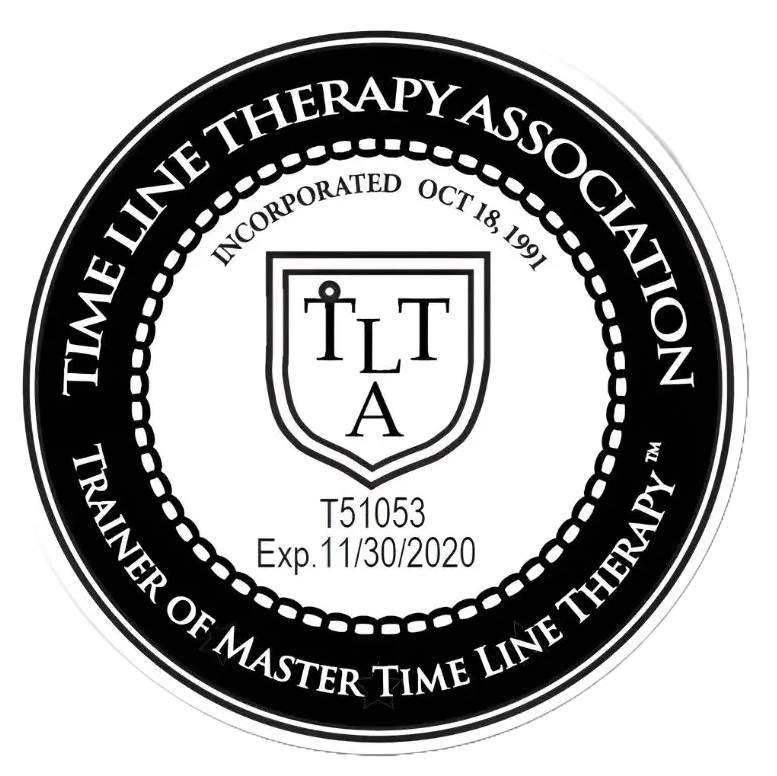
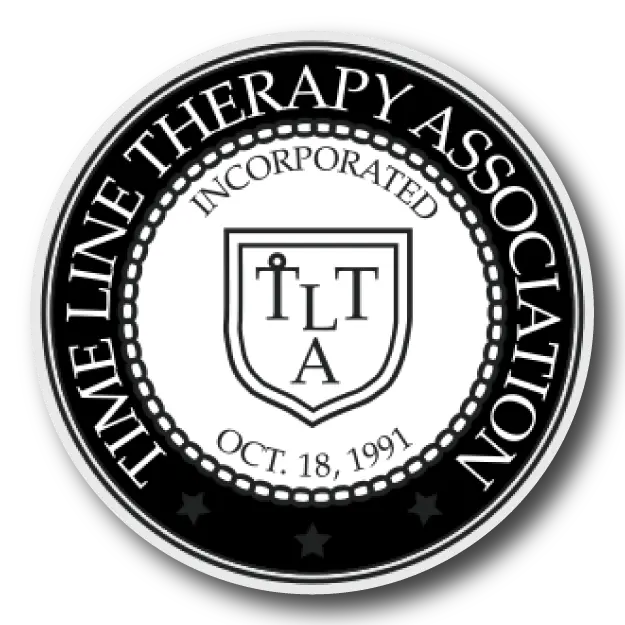
Footer contact labels, Resources dropdown, TLTA seal, empowerYourself content update

diff --git a/app/about-us/[slug]/data.tsx b/app/about-us/[slug]/data.tsx
@@ -53,7 +53,7 @@ import cert3Level3 from "@/assets/level-certificate/certificate-3-level-3.webp"
 import cert4Level3 from "@/assets/level-certificate/certificate-4-level-3.webp"
 import cert5Level3 from "@/assets/level-certificate/certificate-5-level-3.webp"
 import badgeABNLP from "@/assets/level-certificate/badges/abnlp.webp"
-// badgeTLTA not used: the tlta.webp seal prints an expiry date (F6). LOGO: TLTA - Khansa to supply approved artwork.
+import badgeTLTA from "@/assets/level-certificate/badges/tlta.webp"
 import badgeCDAB from "@/assets/level-certificate/badges/cdab.webp"
 import badgeABH from "@/assets/level-certificate/badges/abh.webp"
 import badgeNGH from "@/assets/level-certificate/badges/ngh.webp"
@@ -94,8 +94,8 @@ const approvedBodies: { board: string; seal?: StaticImageData; text: string }[] 
   { board: "ABNLP Coaching Division", seal: badgeCDAB, text: "ABNLP Coaching Division. AL&CO is an Approved Institute of NLP Coaching." },
   // LOGO: ABH - Khansa to supply approved artwork
   { board: "ABH", seal: badgeABH, text: "ABH, the American Board of Hypnotherapy. AL&CO is an ABH Approved School of Hypnosis." },
-  // LOGO: TLTA - Khansa to supply approved artwork (the repo's tlta.webp prints an expiry date, F6)
-  { board: "TLTA", text: "TLTA, the Time Line Therapy Association, for your Time Line Therapy® Techniques credentials." },
+  
+  { board: "TLTA", seal: badgeTLTA, text: "TLTA, the Time Line Therapy Association, for your Time Line Therapy® Techniques credentials." },
   // LOGO: NGH - Khansa to supply approved artwork
   { board: "NGH", seal: badgeNGH, text: "NGH, the National Guild of Hypnotists (USA)." },
   // LOGO: ANLP (UK) - Khansa to supply approved artwork (ANLP CPD badge until then)
@@ -316,9 +316,7 @@ const certificateDataAL: CertificateItem[] = [
     level: "therapy",
     image: CertTrainerMasterTLT,
     badgeImage: CertTrainerMasterTLTBadge,
-    // LOGO: TLTA - Khansa to supply approved artwork. The repo's tlta.webp seal prints
-    // "Exp: 11/30/2020" (DECISIONS v2 F6), so no seal is shown until then.
-    accreditedBadges: [],
+    accreditedBadges: [badgeTLTA],
   },
   {
     id: "11",
@@ -797,8 +795,7 @@ export const certificateDataBP: CertificateItem[] = [
   },
 
   // Time Line Therapy Certificates (TLTA)
-  // LOGO: TLTA - Khansa to supply approved artwork. The repo's tlta.webp seal prints an expiry
-  // date (F6), so only the AL&CO seal is shown on these two cards until then.
+
   {
     id: "10",
     tabLabel: "TLT Practitioner",
@@ -813,7 +810,7 @@ export const certificateDataBP: CertificateItem[] = [
     badgeText: "TLTA Certified Practitioner of Time Line Therapy® Techniques",
     level: "therapy",
     image: cert2Level1,
-    accreditedBadges: [badgeALCO],
+    accreditedBadges: [badgeTLTA, badgeALCO],
   },
   {
     id: "11",
@@ -829,7 +826,7 @@ export const certificateDataBP: CertificateItem[] = [
     badgeText: "TLTA Certified Master Practitioner of Time Line Therapy® Techniques",
     level: "therapy",
     image: cert2Level2,
-    accreditedBadges: [badgeALCO],
+    accreditedBadges: [badgeTLTA, badgeALCO],
   },
   {
     id: "12",
@@ -897,10 +894,10 @@ export const certificateDataBP: CertificateItem[] = [
     badgeText: "AL&CO Quintuple Certified, AH&I Graduate",
     level: "advanced",
     image: cert3Level3,
-    // LOGO: TLTA - omitted until approved artwork without an expiry date is supplied (F6).
     accreditedBadges: [
       badgeABNLP,
       badgeCDAB,
+      badgeTLTA,
       badgeABH,
       badgeNGH,
       badgeALCO,

diff --git a/app/programs/page.tsx b/app/programs/page.tsx
@@ -9,7 +9,7 @@ import programLevel1 from "@/assets/background/program-level-1.webp";
 // LOGO markers below: Khansa to confirm or replace with the current approved artwork.
 import SealABNLP from "@/assets/level-certificate/badges/abnlp.webp";
 import SealABNLPCoaching from "@/assets/level-certificate/badges/cdab.webp";
-// tlta.webp not imported: that seal prints an expiry date (F6). LOGO: TLTA - Khansa to supply approved artwork.
+import SealTLTA from "@/assets/level-certificate/badges/tlta.webp";
 import SealABH from "@/assets/level-certificate/badges/abh.webp";
 import SealNGH from "@/assets/level-certificate/badges/ngh.webp";
 import SealANLP from "@/assets/level-certificate/badges/cpd.webp";
@@ -164,10 +164,8 @@ const LEVELS: Level[] = [
   },
 ];
 
-// Certification shown as a checklist. Wording is the same as `certification` above, split at the semicolons and
-// commas so each credential is its own line (connectors such as ";" and ", and" are dropped, first letter capitalised).
-// A seal is shown only where the repo has approved artwork. TLTA has none yet (its file prints an expiry date, F6),
-// so that line gets a check mark instead. LOGO: TLTA - add `seal` here once Khansa supplies the undated artwork.
+// Certification shown as a checklist. ... split at the semicolons and
+// commas so each credential is its own line ...
 type CertItem = { text: string; seal?: StaticImageData };
 type CertBlock = { lead?: string; items: CertItem[]; note?: CertItem };
 
@@ -176,7 +174,7 @@ const CERTS: Record<string, CertBlock> = {
     lead: "Quad certification:",
     items: [
       { text: "Certified Practitioner of NLP (ABNLP)", seal: SealABNLP },
-      { text: "Practitioner of Time Line Therapy® Techniques (TLTA)" },
+      { text: "Practitioner of Time Line Therapy® Techniques (TLTA)", seal: SealTLTA },
       { text: "Certified NLP Coach (ABNLP Coaching Division)", seal: SealABNLPCoaching },
       { text: "AL&CO Certified Practitioner of Behavioral Reengineering", seal: SealALCO },
     ],
@@ -186,7 +184,7 @@ const CERTS: Record<string, CertBlock> = {
     lead: "Quad certification at master level:",
     items: [
       { text: "Certified Master Practitioner of NLP (ABNLP)", seal: SealABNLP },
-      { text: "Master Practitioner of Time Line Therapy® Techniques (TLTA)" },
+      { text: "Master Practitioner of Time Line Therapy® Techniques (TLTA)", seal: SealTLTA },
       { text: "Certified NLP Master Coach (ABNLP Coaching Division)", seal: SealABNLPCoaching },
       { text: "AL&CO Certified Practitioner of Behavioral Reengineering at master level", seal: SealALCO },
     ],
@@ -234,7 +232,7 @@ const levelUrl = (slug: string) => `/program/${slug}`;
 const BOARD_SEALS = [
   { src: SealABNLP, alt: "ABNLP seal" },                                   // LOGO: ABNLP - Khansa to supply approved artwork
   { src: SealABNLPCoaching, alt: "ABNLP Coaching Division seal" },         // LOGO: ABNLP Coaching Division - Khansa to supply approved artwork
-  // LOGO: TLTA - Khansa to supply approved artwork without an expiry date, then add it back here.
+  { src: SealTLTA, alt: "Time Line Therapy Association (TLTA) seal" },
   { src: SealABH, alt: "American Board of Hypnotherapy (ABH) seal" },      // LOGO: ABH - Khansa to supply approved artwork
   { src: SealNGH, alt: "National Guild of Hypnotists (NGH) seal" },        // LOGO: NGH - Khansa to supply approved artwork
   { src: SealANLP, alt: "ANLP (UK) CPD accreditation seal" },              // LOGO: ANLP (UK) - Khansa to supply approved artwork

diff --git a/component/empowerYourself.tsx b/component/empowerYourself.tsx
@@ -11,7 +11,7 @@ import Image from "next/image";
 
 // B 02 rows A2 to A6. This page carries the site's only use of "mind-sciences" (A3).
 const artWeTeachRest =
-  " welcome you. We begin with clarity, because clarity is where real choice starts. We begin with agency, because mastery always starts from within. We begin with alignment, because that is where genuine change takes root. What we teach is not a science, and it does not pretend to be one, because a human being is not a laboratory. Human experience is subjective, and that is exactly what makes this an art: the art of understanding how people work, and of modeling how those who already thrive actually do it, so that it can be learned by anyone willing to practise. NLP draws on behavioural psychology; it is a synthesis and a modelling technique, and in the hands of a practitioner it becomes a craft. Neuro-Linguistic Programming, Time Line Therapy® Techniques, Hypnosis and Coaching are the tools of that art. You need no background in psychology to begin. You need a reason, and the willingness to practise. We do not see anyone who comes to us as broken, and we are not here to fix what was never broken. We journey with you, into the areas you choose, so you can ground yourself there with more precision and more freedom.";
+  ". We begin with clarity, because clarity is where real choice starts. We begin with agency, because mastery always starts from within. We begin with alignment, because that is where genuine change takes root. What we teach is not a science, and it does not pretend to be one, because a human being is not a laboratory. Human experience is subjective, and that is exactly what makes this an art: the art of understanding how people work, and of modeling how those who already thrive actually do it, so that it can be learned by anyone willing to practise. NLP draws on behavioural psychology; it is a synthesis and a modelling technique, and in the hands of a practitioner it becomes a craft. Neuro-Linguistic Programming, Time Line Therapy® Techniques, Hypnosis and Coaching are the tools of that art. You need no background in psychology to begin. You need a reason, and the willingness to practise. We do not see anyone who comes to us as broken, and we are not here to fix what was never broken. We journey with you, into the areas you choose, so you can ground yourself there with more precision and more freedom.";
 
 const empowerYourself: EmpowerYourselfData = {
   title: "The Institution",
@@ -37,7 +37,7 @@ const empowerYourself: EmpowerYourselfData = {
     },
     {
       title: "The Art We Practise",
-      description: "Assalam-o-Alaikum. Arslan and Bismillah" + artWeTeachRest,
+      description: "Greetings from Arslan and Bismillah" + artWeTeachRest,
       image: {
         src: About3.src,
         alt: "Arslan Larik and Bismillah Pervez teaching live"
@@ -50,7 +50,7 @@ const empowerYourself: EmpowerYourselfData = {
 const richDescriptions: Record<number, React.ReactNode> = {
   2: (
     <>
-      Assalam-o-Alaikum.{" "}
+      Greetings from {" "}
       <Link href="/about-us/who-is-arslan-larik" className="underline">Arslan</Link> and{" "}
       <Link href="/about-us/who-is-bismillah-pervez" className="underline">Bismillah</Link>
       {artWeTeachRest}

diff --git a/app/program/[slug]/data.tsx b/app/program/[slug]/data.tsx
@@ -25,7 +25,7 @@ import programLevel1 from "@/assets/background/program-level-1.webp"
 import programLevel2 from "@/assets/background/program-level-2.webp"
 import { LevelCertificationType } from "@/type/levelCertification";
 import AccreditedBrand1 from "@/assets/accredited/accredited-1.webp"
-import AccreditedBrand2 from "@/assets/accredited/accredited-2.webp"
+import AccreditedBrand2 from "@/assets/level-certificate/badges/tlta.webp";
 import AccreditedBrand3 from "@/assets/accredited/accredited-3.webp"
 import AccreditedBrand4 from "@/assets/accredited/accredited-4.webp"
 import AccreditedBrand5 from "@/assets/accredited/accredited-5.webp"
@@ -98,7 +98,6 @@ const LevelCertificationDataLevel1: LevelCertificationType = {
       imageCerficate: { src: Certificate1Level1, alt: "Sample ABNLP Certified Practitioner of NLP certificate" },
     },
     {
-      // LOGO: TLTA - Khansa to supply approved artwork (accredited-2.webp is a placeholder until confirmed)
       title: "Certified Practitioner of Time Line Therapy® Techniques, Time Line Therapy Association (TLTA)",
       description: "The trademarked technique set acknowledged as the fastest way to release negative emotions, limiting beliefs and anxiety, at the unconscious level.",
       imageBrand: { src: AccreditedBrand2, alt: "Time Line Therapy Association (TLTA) seal" },
@@ -467,7 +466,6 @@ const LevelCertificationDataLevel2: LevelCertificationType = {
       imageCerficate: { src: Certificate1Level2, alt: "Sample ABNLP Certified Master Practitioner of NLP certificate" },
     },
     {
-      // LOGO: TLTA - Khansa to supply approved artwork (accredited-2.webp is a placeholder until confirmed)
       title: "Master Practitioner of Time Line Therapy® Techniques, Time Line Therapy Association (TLTA)",
       description: "Mastery of the technique set, not familiarity with it.",
       imageBrand: { src: AccreditedBrand2, alt: "Time Line Therapy Association (TLTA) seal" },

diff --git a/component/Accredited.tsx b/component/Accredited.tsx
@@ -7,6 +7,7 @@ import sealABNLP from "@/assets/level-certificate/badges/abnlp.webp";
 import sealABNLPCoaching from "@/assets/level-certificate/badges/cdab.webp";
 import sealABH from "@/assets/level-certificate/badges/abh.webp";
 import sealNGH from "@/assets/level-certificate/badges/ngh.webp";
+import sealTLTA from "@/assets/level-certificate/badges/tlta.webp";
 import sealANLP from "@/assets/level-certificate/badges/cpd.webp";
 import sealALCO from "@/assets/level-certificate/badges/alco.webp";
 
@@ -26,9 +27,8 @@ const seals: SealLine[] = [
   { board: "ABNLP Coaching Division", seal: sealABNLPCoaching, text: "ABNLP Coaching Division: AL&CO is an Approved Institute of NLP Coaching." },
   // LOGO: ABH - Khansa to supply approved artwork
   { board: "ABH", seal: sealABH, text: "ABH: AL&CO is an ABH Approved School of Hypnosis." },
-  // LOGO: TLTA - Khansa to supply approved artwork. The repo's tlta.webp badge prints an expiry
-  // date ("Exp: 11/30/2020"), which DECISIONS v2 F6 forbids, so it is not used here.
-  { board: "TLTA", text: "TLTA: the Time Line Therapy Association, for your Time Line Therapy® Techniques credentials." },
+  
+  { board: "TLTA", seal: sealTLTA, text: "TLTA: the Time Line Therapy Association, for your Time Line Therapy® Techniques credentials." },
   // LOGO: NGH - Khansa to supply approved artwork
   { board: "NGH", seal: sealNGH, text: "NGH: the National Guild of Hypnotists (USA)." },
   // LOGO: ANLP (UK) - Khansa to supply approved artwork (the ANLP CPD badge is used until then)

diff --git a/component/Footer.tsx b/component/Footer.tsx
@@ -37,8 +37,13 @@ const usefulLinks = [
 // display-only for US and Canada callers: never a tel: or wa.me link.
 type ContactItem = { icon?: React.ReactNode; name: string; href?: string; className?: string };
 const ContactDetails: ContactItem[] = [
-  { icon: <FiPhone />, name: "+92 336 008 2222", href: "tel:+923360082222" },
-  { name: "US and Canada: +1 (206) 614 0234", className: "-mt-1" },
+  // Phone item: change name only
+{ icon: <FiPhone />, name: "Pakistan: +92 336 008 2222", href: "tel:+923360082222" },
+
+// US item: leave as is
+{ name: "US and Canada: +1 (206) 614 0234" },
+
+// WhatsApp item: change name only
   { icon: <FaWhatsapp />, name: "WhatsApp: +92 336 008 2222", href: "https://wa.me/923360082222" },
   { icon: <FiMail />, name: "connect@arslanlarik.com", href: "mailto:connect@arslanlarik.com" },
   { icon: <FiMapPin />, name: "D86/1, Gulshan-e-Iqbal, Block 7, Karachi, 75300, Sindh, Pakistan" },

diff --git a/component/Navbar.tsx b/component/Navbar.tsx
@@ -39,8 +39,13 @@ const menuData = [
   },
 
   { name: "Four Clouds Model", link: "/services/four-clouds-model" },
-  { name: "Blogs", link: "/blogs" },
-  { name: "Resource", link: "/services/resources" },
+    {
+    name: "Resources",
+    submenu: [
+      { name: "All Resources", link: "/services/resources" },
+      { name: "Blogs", link: "/blogs" },
+    ],
+  },
   { name: "Contact", link: "/contact" },
 ];
 
